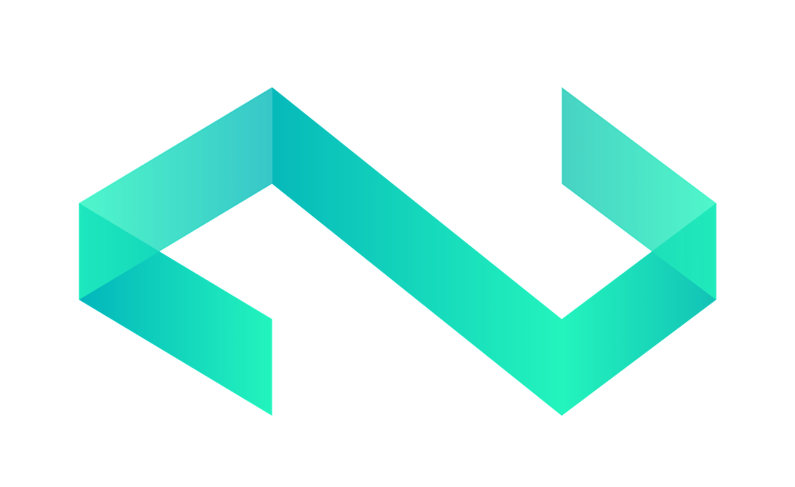
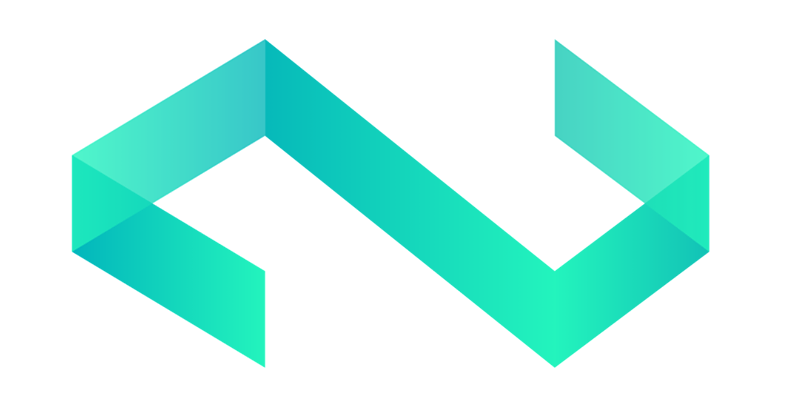
New pictures for tiles and new colors
New pictures for tiles and new colors

diff --git a/_layouts/home.html b/_layouts/home.html
@@ -21,7 +21,8 @@
             <div class="content">
                 <p style="text-transform: uppercase;">{{ site.description }}</p>
                 <ul class="actions">
-                    <li><a href="#one" class="button next scrolly">Call to Action</a></li>
+                    <li><a href="#two" class="button next scrolly">Call to Action</a></li>
+                    <!--href was ="#one"-->
                 </ul>
             </div>
         </div>

diff --git a/_sass/libs/_vars.scss b/_sass/libs/_vars.scss
@@ -45,9 +45,9 @@
 		accent5:			#8ea9e8,
 		accent6:			#87c5a4
 		these are the original colors*/
-		accent1:			#66ffcc,
+		accent1:			#993399,
 		accent2: 			#3399ff,
-		accent3: 			#ffcc00,
-		accent4:			#993399,
-		accent5:			#ff5050
+		accent3: 			#ff5050,
+		accent4:			#66ffcc/*,
+		accent5:			#ffcc00*/
 	);

diff --git a/elements.md b/elements.md
@@ -2,6 +2,7 @@
 layout: posts
 title: Blog
 description: Hear from our members about anything and everything tech.
+image: /assets/images/binary.jpg
 nav-menu: true
 ---
 <!--before the layout was "page" in case this is a bug/doesn't work-->

diff --git a/all_posts.md b/all_posts.md
@@ -4,7 +4,7 @@ title: About us
 landing-title: 'About us'
 nav-menu: true
 description: Meet our team!
-image: null
+image: /assets/images/oldWell.jpg
 author: null
 ---
 
